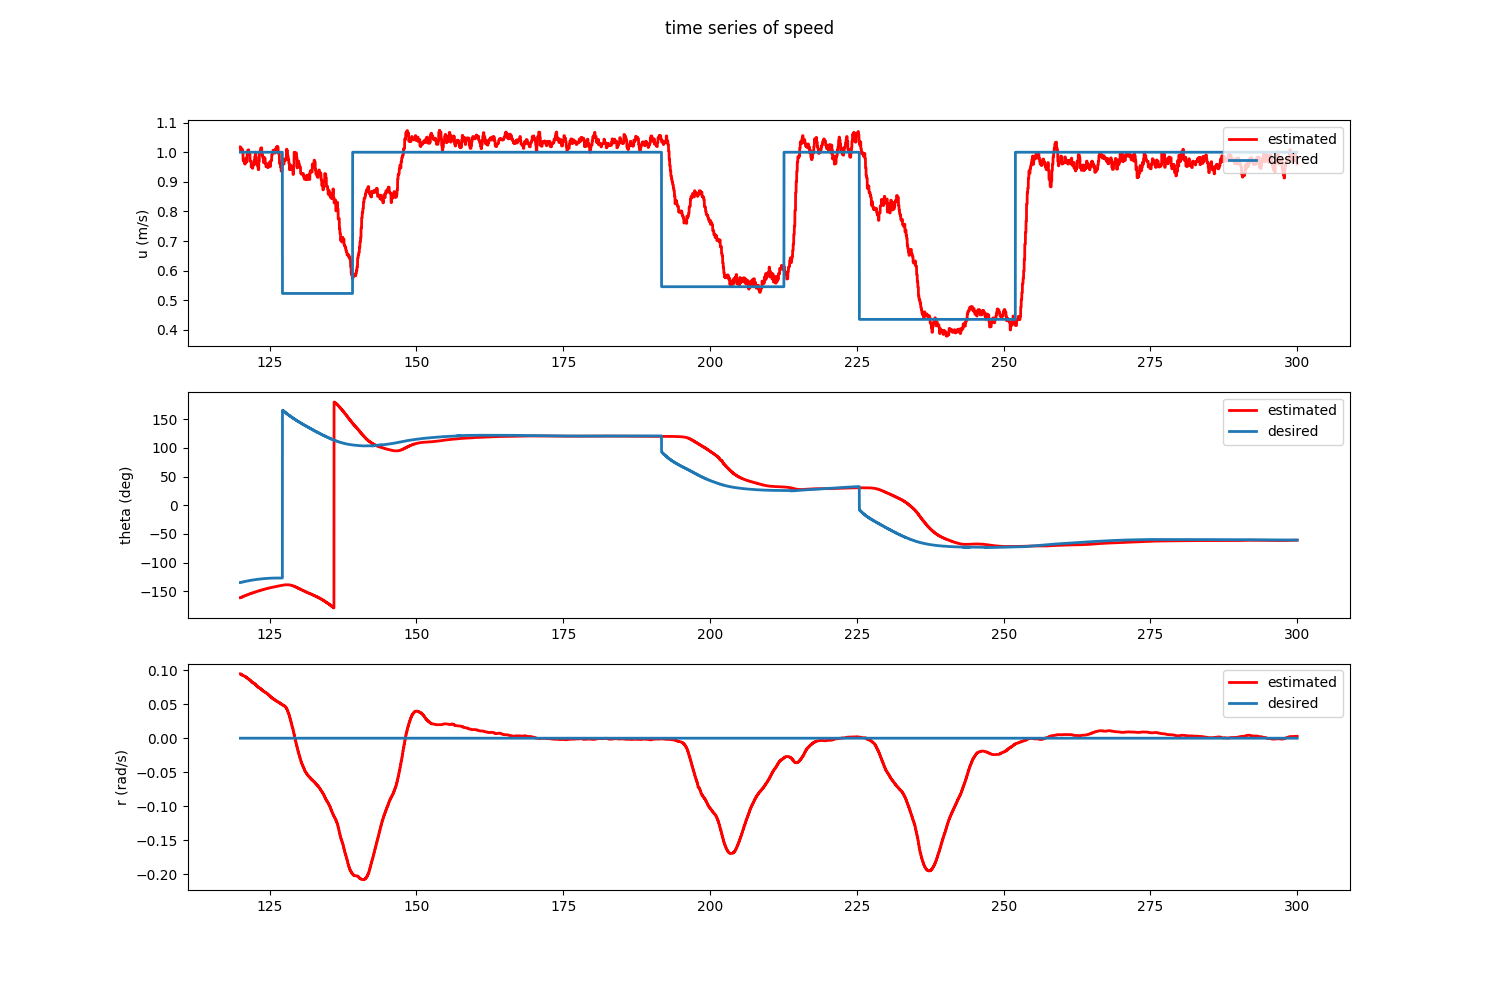
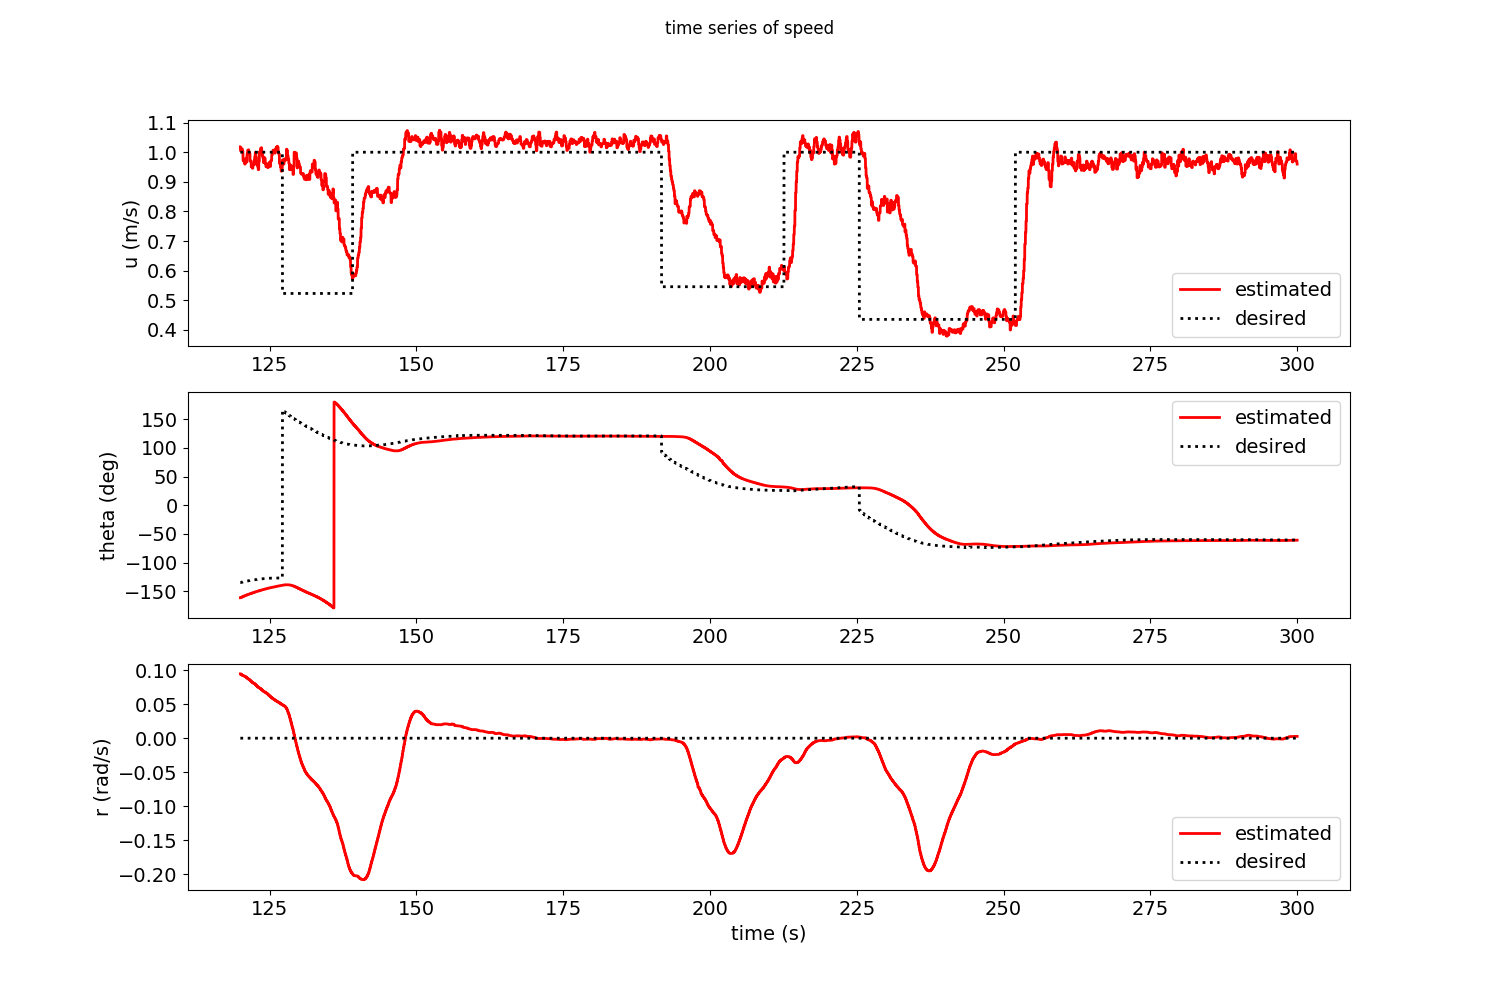
wind

diff --git a/examples/siyuanhuhao/utest/paper/path_follow/plottrajectorytracking.py b/examples/siyuanhuhao/utest/paper/path_follow/plottrajectorytracking.py
@@ -107,16 +107,19 @@ controllerdata = controllerdata[
     & (controllerdata['DATETIME'] < time_stamp_select[1])]
 
 
+fontsize_ = 14
 # results of 2d trajectory of vessel
 plt.figure(2, figsize=(10, 8))
-plt.suptitle("Plannar trajectory of GPS", fontsize=14)
+plt.suptitle("Plannar trajectory of GPS", fontsize=10)
 plt.plot(estimatordata["meas_y"]-3.509e5,
          estimatordata["meas_x"]-3.4337e6, 'ko', lw=2, markersize=1)
 # plt.plot(wpdata['Y'], wpdata['X'],
 #          color='tab:gray', lineStyle='-', lw=1)
 plt.axis('equal')
-plt.xlabel('E (m)')
-plt.ylabel('N (m)')
+plt.xticks(fontsize=fontsize_)
+plt.yticks(fontsize=fontsize_)
+plt.xlabel('E (m)', fontsize=fontsize_)
+plt.ylabel('N (m)', fontsize=fontsize_)
 
 
 plt.savefig('trajectory.png')
@@ -127,26 +130,30 @@ plt.suptitle("time series of speed", fontsize=12)
 plt.subplot(3, 1, 1)
 plt.plot(estimatordata['DATETIME'], estimatordata['state_u'], '-r', lw=2)
 plt.plot(controllerdata['DATETIME'], controllerdata['set_u'],
-         color='tab:blue', lineStyle='-', lw=2)
-plt.ylabel('u (m/s)')
-plt.legend(('estimated', 'desired'), loc='upper right')
+         ':k', lw=2)
+plt.ylabel('u (m/s)', fontsize=fontsize_)
+plt.legend(('estimated', 'desired'), loc='lower right', fontsize=fontsize_)
+plt.xticks(fontsize=fontsize_)
+plt.yticks(fontsize=fontsize_)
 
 plt.subplot(3, 1, 2)
 plt.plot(estimatordata['DATETIME'],
          estimatordata['state_theta']*180/math.pi, '-r', lw=2)
 plt.plot(controllerdata['DATETIME'], controllerdata['set_theta']*180/math.pi,
-         color='tab:blue', lineStyle='-', lw=2)
-plt.ylabel('theta (deg)')
-plt.legend(('estimated', 'desired'), loc='upper right')
-
+         ':k', lw=2)
+plt.ylabel('theta (deg)', fontsize=fontsize_)
+plt.legend(('estimated', 'desired'), loc='upper right', fontsize=fontsize_)
+plt.xticks(fontsize=fontsize_)
+plt.yticks(fontsize=fontsize_)
 
 plt.subplot(3, 1, 3)
 plt.plot(estimatordata['DATETIME'], estimatordata['state_r'], '-r', lw=2)
-plt.plot(controllerdata['DATETIME'], controllerdata['set_r'],
-         color='tab:blue', lineStyle='-', lw=2)
-plt.ylabel('r (rad/s)')
-plt.legend(('estimated', 'desired'), loc='upper right')
-
+plt.plot(controllerdata['DATETIME'], controllerdata['set_r'], ':k', lw=2)
+plt.ylabel('r (rad/s)', fontsize=fontsize_)
+plt.xlabel('time (s)', fontsize=fontsize_)
+plt.legend(('estimated', 'desired'), loc='lower right', fontsize=fontsize_)
+plt.xticks(fontsize=fontsize_)
+plt.yticks(fontsize=fontsize_)
 plt.savefig('time.png')
 
 

diff --git a/examples/siyuanhuhao/utest/paper/planning/plottrajectorytracking.py b/examples/siyuanhuhao/utest/paper/planning/plottrajectorytracking.py
@@ -110,8 +110,8 @@ controllerdata = controllerdata[
 # results of 2d trajectory of vessel
 plt.figure(2, figsize=(10, 8))
 plt.suptitle("Plannar trajectory of GPS", fontsize=14)
-plt.plot(estimatordata["meas_y"],
-         estimatordata["meas_x"]-3e6, 'ko', lw=2, markersize=1)
+plt.plot(estimatordata["meas_y"]-3.509e5,
+         estimatordata["meas_x"]-3.4337e6, 'ko', lw=2, markersize=1)
 # plt.plot(wpdata['Y'], wpdata['X'],
 #          color='tab:gray', lineStyle='-', lw=1)
 plt.axis('equal')
@@ -127,7 +127,7 @@ plt.suptitle("time series of positions", fontsize=12)
 plt.subplot(2, 1, 1)
 plt.plot(estimatordata['DATETIME'], estimatordata['state_u'], '-r', lw=2)
 plt.plot(controllerdata['DATETIME'], controllerdata['set_u'],
-         color='tab:blue', lineStyle='-', lw=2)
+         ':k', lw=2)
 plt.ylim(0.8, 1.4)
 plt.xticks(fontsize=16)
 plt.yticks(fontsize=16)
@@ -139,7 +139,7 @@ plt.subplot(2, 1, 2)
 plt.plot(estimatordata['DATETIME'],
          estimatordata['state_theta']*180/math.pi, '-r', lw=2)
 plt.plot(controllerdata['DATETIME'], controllerdata['set_theta']*180/math.pi,
-         color='tab:blue', lineStyle='-', lw=2)
+         ':k', lw=2)
 plt.xticks(fontsize=16)
 plt.yticks(fontsize=16)
 plt.ylabel('theta (deg)', fontsize=16)

diff --git a/modules/messages/sensors/wind/include/wind.h b/modules/messages/sensors/wind/include/wind.h
@@ -29,7 +29,7 @@ class wind {
     static unsigned char buff_send_wind[] = {0x02, 0x03, 0x00, 0x2A,
                                              0x00, 0x02, 0xE5, 0xF0};
 
-    char buff_rec[9];
+    unsigned char buff_rec[9];
 
     ser_wind_.writeline(buff_send_wind, 8);
     ser_wind_.readline(buff_rec, 9);
